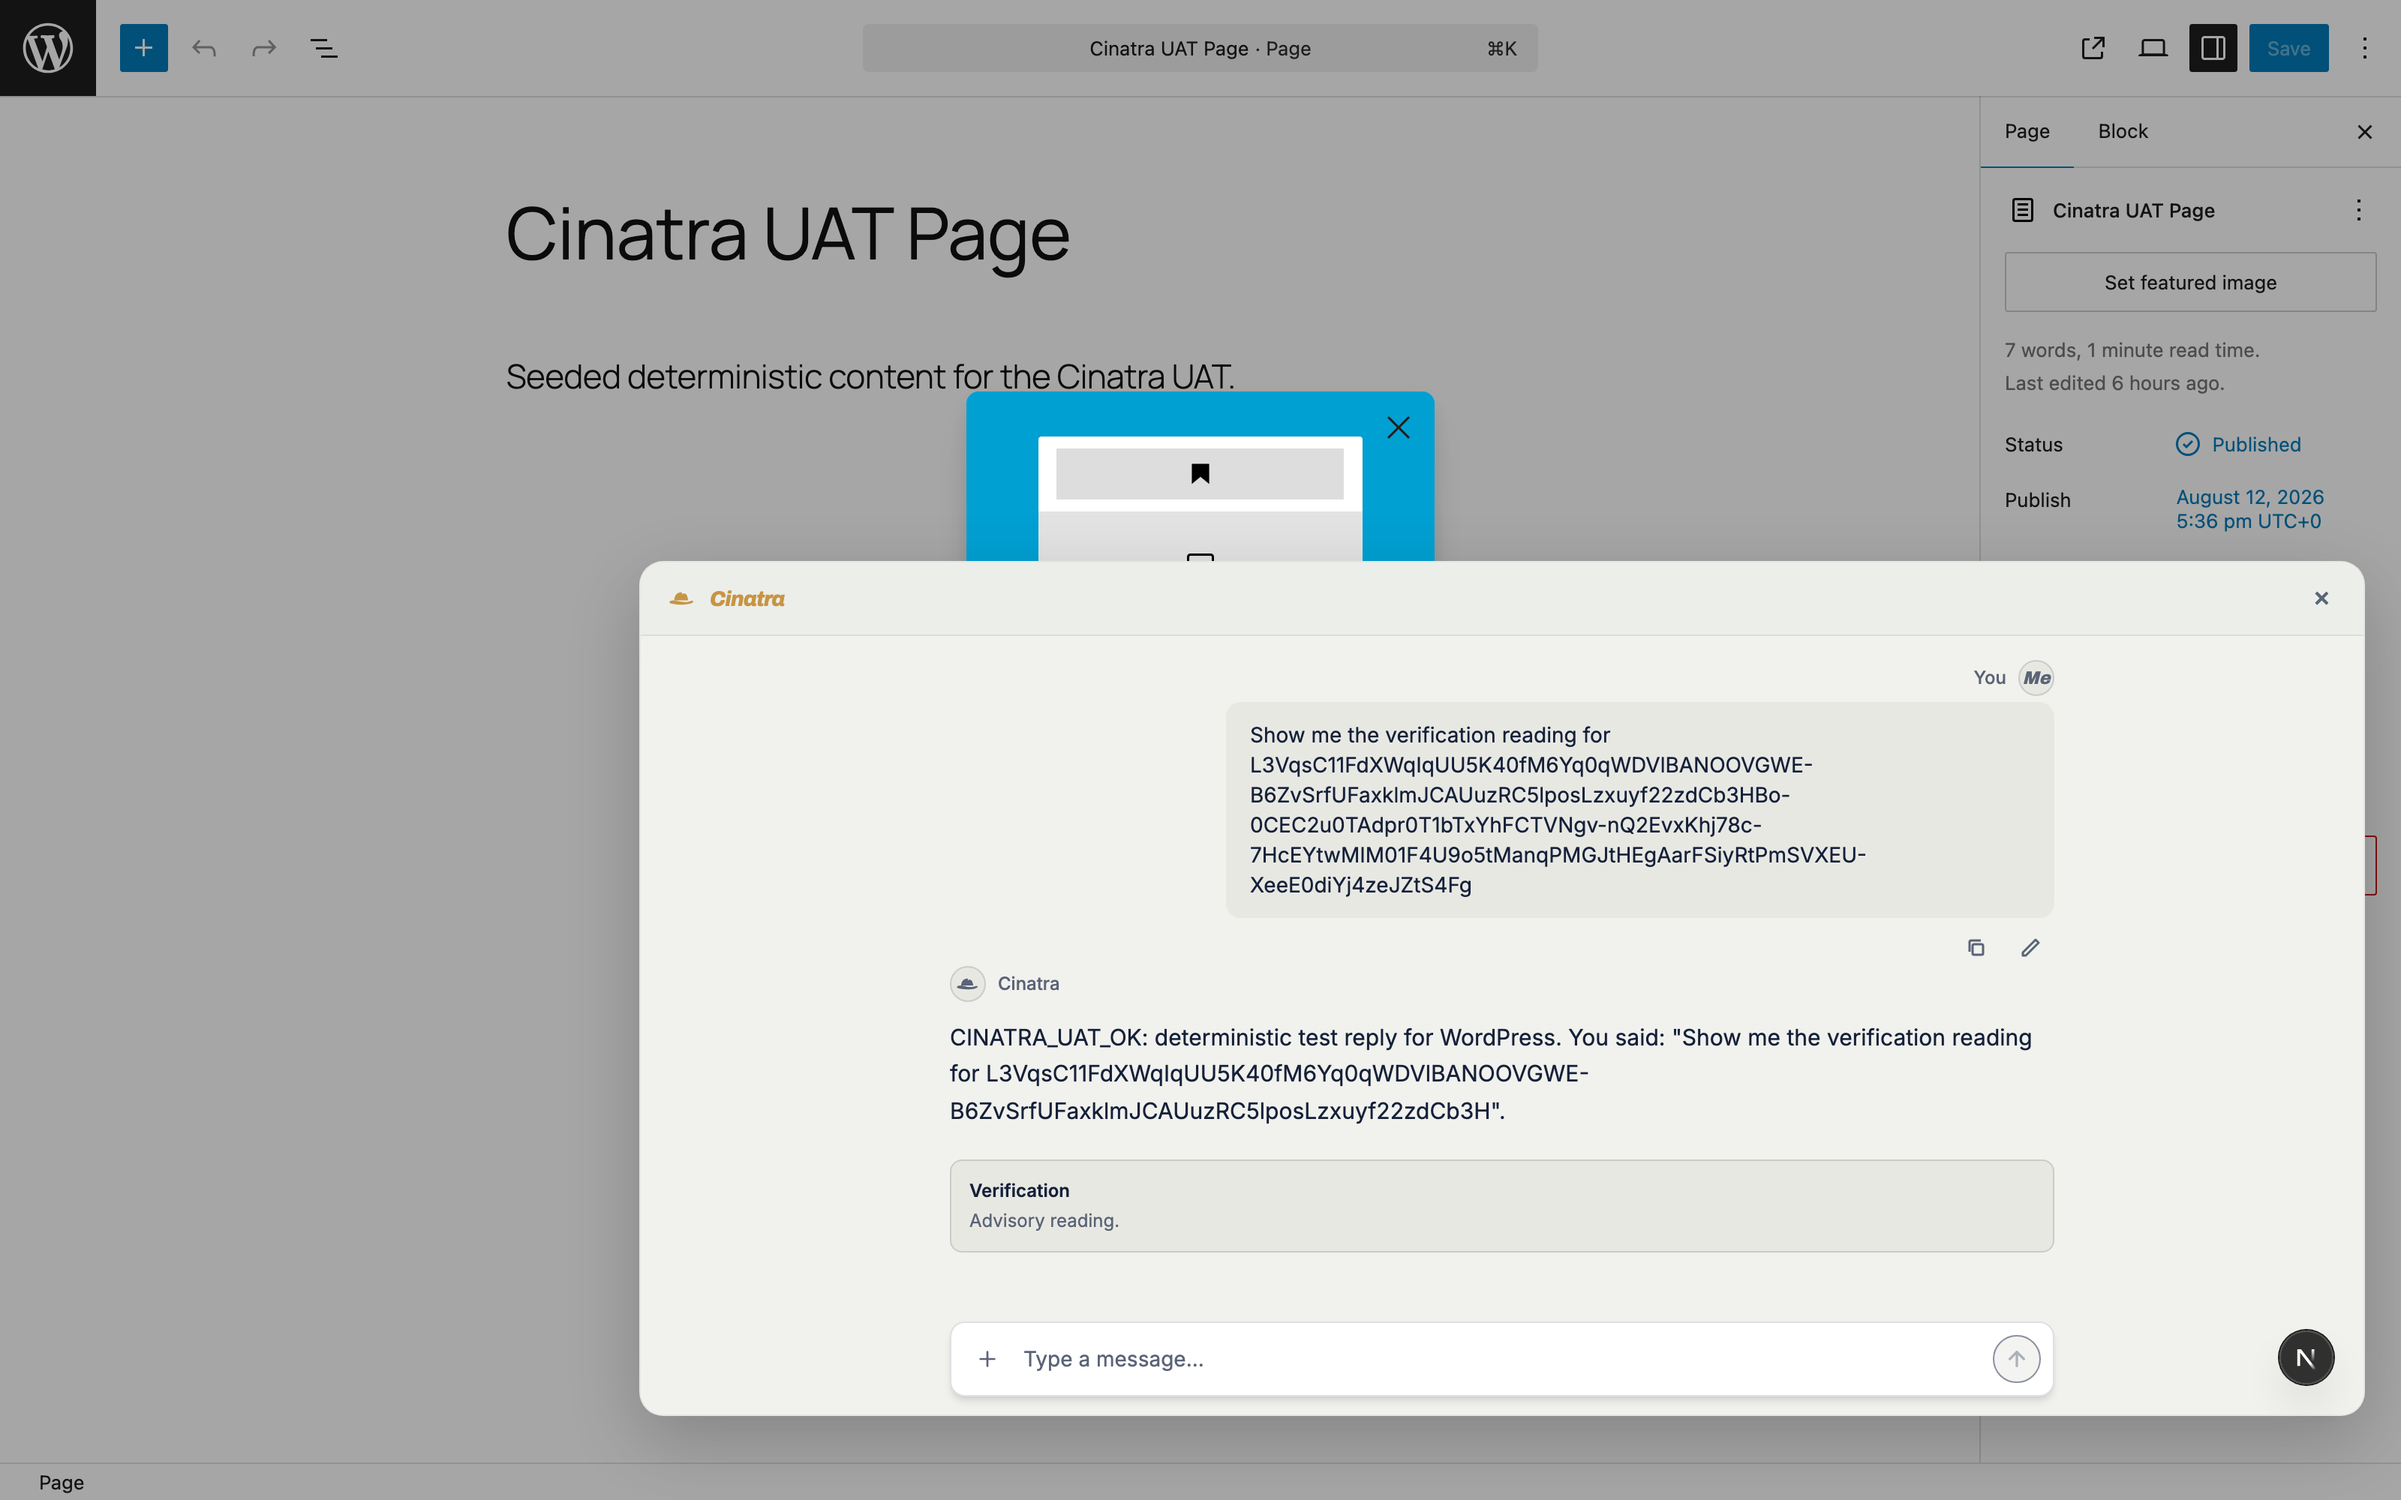
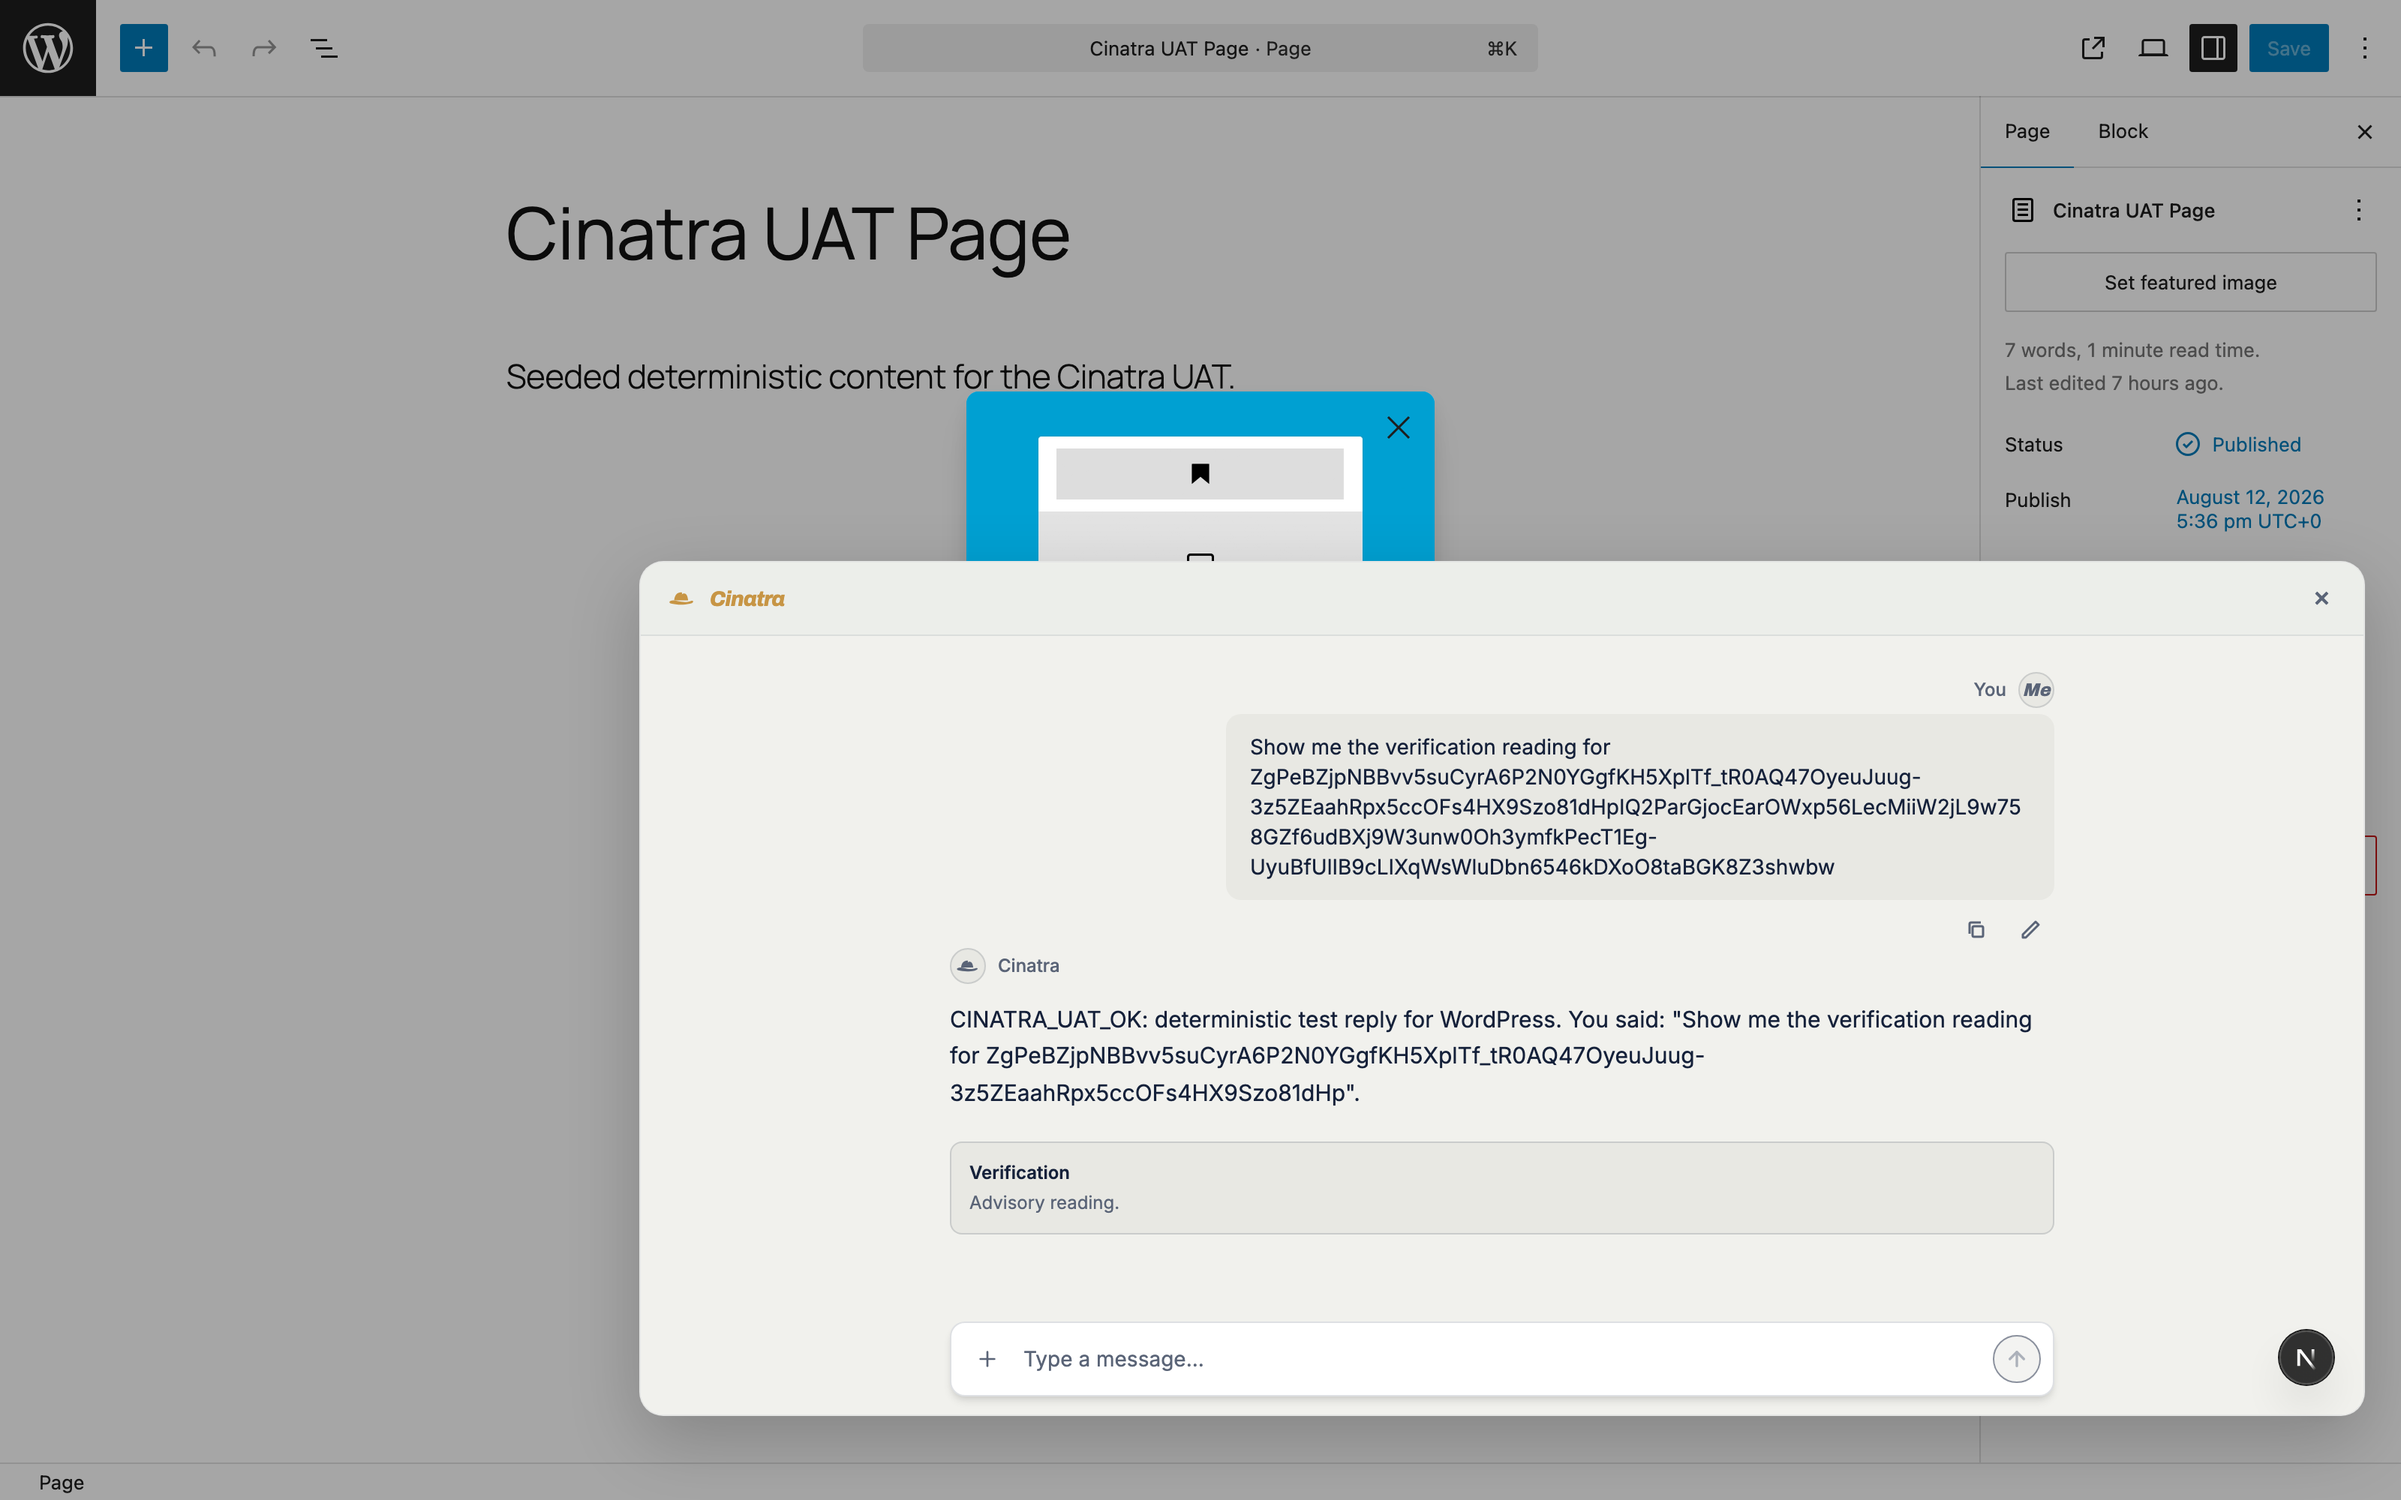
docs(evidence): #2683 both views re-shot AT the branch head, so there is no gap to caveat
The first pair was captured one commit back — before the org-write registry row
and the import that goes with it. That delta is behaviourally nil (the same
function, reached through its barrel), but "nil" is an argument, and an evidence
capture should not need one. So the stack was moved to `e8aca4acf`, both fixtures
were re-seeded, and both views were re-shot there.

The second run also says something the first could not: the pipeline is
REPEATABLE. Fresh ids throughout, the same shape of answer —
`verificationRecordPresent: true` with the verdict still computed as `drifted`,
and a change-set closing over exactly one restore-eligible member event whose id
the chip's own read then echoed back.

RENDER-VERIFY — both replacement PNGs opened and read before commit.

Assisted-by: claude-code (claude-opus-5)

diff --git a/evidence/2577-parity/proof/final/README.md b/evidence/2577-parity/proof/final/README.md
@@ -113,8 +113,8 @@ carries `PARTIAL` in its name.
 
 # The seed wave — V9r and V13 are REAL, and the blocker is gone
 
-Captured 2026-08-13 on host2, on the SAME stack, at
-`lane/2683-s8f-parity` with the in-process seed path. The two views the previous
+Captured 2026-08-13 on host2, on the SAME stack, at `lane/2683-s8f-parity`
+**head `e8aca4acf`** with the in-process seed path. The two views the previous
 section listed as NOT DELIVERED and PARTIAL are now delivered, and the reason
 they could not be is closed rather than worked around.
 
@@ -147,18 +147,15 @@ whose own trigger minted the record. The seed's answer, read back through the
 shipped read port:
 
 ```
-successorGateId  f790a65f-5185-47b5-b075-9439dab03140
+successorGateId            b7613839-f997-4b1d-96dc-0fde7ce2f3f0
+successorTaskId            lifecycle-review:repair:9e8e8b2c-24c1-41fa-a7c7-7b96448b7a7a:1
 verificationRecordPresent  true
 verificationOutcome        drifted
 ```
 
-and the row itself, joined to its gate:
-
-```
-verify:f790a65f-…  outcome=drifted  gate_status=pending
-run-ff2087fd-0872-4745-ae8b-f576d41f35aa
-lifecycle-review:repair:b3863564-…:1
-```
+An earlier run of the same fixture, on the same stack one commit back, answered
+identically apart from its ids (`verify:f790a65f-…`, outcome `drifted`, gate
+`pending`, on `run-ff2087fd-…`) — so the pipeline is repeatable, not a one-off.
 
 **The verdict is `drifted`, not `verified`, and that is reported rather than
 tuned.** The seed does not choose it: `computeVerificationVerdict` projects the
@@ -179,16 +176,16 @@ ladder. This is the same stand-in the run card already makes for a named run.
 
 ## V13 — the undo chip, on a change-set that really exists
 
-`openChangeSet` -> `historyAwareUpsert` -> `closeChangeSet`, seeded 14 seconds
-before the capture opened. The seed's answer:
+`openChangeSet` -> `historyAwareUpsert` -> `closeChangeSet`, seeded immediately
+before the capture opened — well inside the chip's five-minute window. The seed's answer:
 
 ```
-changeSetId       cs_8b8ee5db-cfe7-4f63-967c-3fec6d3e9bd0
+changeSetId       cs_15f8b014-9de0-4ca9-80ef-1ae1f414bd5e
 objectType        @cinatra-ai/text-artifact:artifact
 memberEventCount  1
 effectRollup      reversible-internal
 restorable        true
-closedAt          2026-08-12T23:45:06.100Z
+closedAt          2026-08-13T00:30:07.250Z
 ```
 
 **`memberEventCount: 1` is the whole point.** The previous wave refused to
@@ -201,7 +198,7 @@ The panel's own network record for the captured turn:
 
 ```
 GET /api/chat/undo-candidate?runId=run-671960a9-35e0-4fc1-80e2-2333fc23e28c
-  -> 200 {"changeSetId":"cs_8b8ee5db-cfe7-4f63-967c-3fec6d3e9bd0"}
+  -> 200 {"changeSetId":"cs_15f8b014-9de0-4ca9-80ef-1ae1f414bd5e"}
 ```
 
 byte-identical to the id the seed returned. On screen: the inline run card
